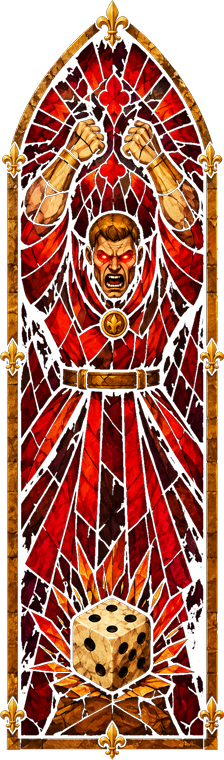
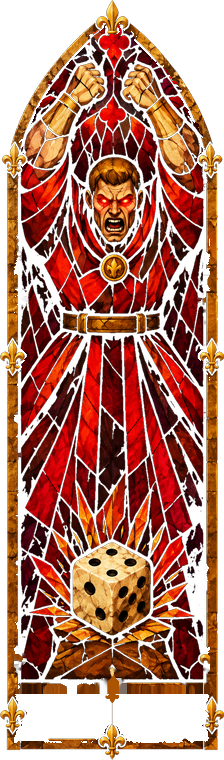
art: Wrath's glass moved up 56 px inside his frame, no scaling (his eyes on the others' line, 48% of the table window; fists under the arch); the frame split takes only gold joined to the rim, so no glass is left behind on it (REPLY 33 item 2)

diff --git a/tools/wrath_glass_shift.py b/tools/wrath_glass_shift.py
@@ -1,0 +1,88 @@
+# REPLY 32-33: split a kept window into frame and glass and shift the glass up (Wrath: 56 px, no scaling), so his
+# eyes land on the other Sins' eye line. Frame = the rim, the gold connected to it, and the lead hugging its inner
+# edge; glass = the rest, its pixels under the frame filled from the glass beside them.
+# python -I tools/wrath_glass_shift.py <window.png> <out.png> <px up>
+import sys
+import numpy as np
+from PIL import Image
+
+src, out, shift = sys.argv[1], sys.argv[2], int(sys.argv[3])
+im = np.asarray(Image.open(src).convert('RGBA')).astype(np.float32)
+H, W = im.shape[:2]
+solid = im[..., 3] > 128
+inside = np.zeros_like(solid)  # the window's shape: each row filled from its first to its last solid pixel
+for y in range(H):
+    xs = np.nonzero(solid[y])[0]
+    if xs.size:
+        inside[y, xs[0]:xs[-1] + 1] = True
+
+# distance (in px, chessboard) from the outside, by repeated erosion
+dist = np.zeros((H, W), np.int32)
+cur = inside.copy()
+for d in range(1, 40):
+    n = cur.copy()
+    n[1:, :] &= cur[:-1, :]
+    n[:-1, :] &= cur[1:, :]
+    n[:, 1:] &= cur[:, :-1]
+    n[:, :-1] &= cur[:, 1:]
+    dist[cur & ~n] = d
+    cur = n
+dist[cur] = 40
+
+r, g, b = im[..., 0], im[..., 1], im[..., 2]
+gold = (r > 120) & (g > 80) & (b < g * 0.75) & (r > b + 60) & (np.abs(r - g) < 110)
+BAND = 26
+# the frame: the rim, then the gold connected to it (so a skin or glass highlight near the edge stays glass),
+# then the dark lead hugging the gold's inner edge
+frame = inside & (dist <= 6)
+cand = inside & gold & (dist <= BAND)
+for _ in range(BAND + 4):
+    g2 = frame.copy()
+    g2[1:, :] |= frame[:-1, :]
+    g2[:-1, :] |= frame[1:, :]
+    g2[:, 1:] |= frame[:, :-1]
+    g2[:, :-1] |= frame[:, 1:]
+    g2 &= cand | frame
+    if (g2 == frame).all():
+        break
+    frame = g2
+lead = inside & ((r + g + b) < 150) & (dist <= BAND + 3)
+for _ in range(2):
+    g2 = frame.copy()
+    g2[1:, :] |= frame[:-1, :]
+    g2[:-1, :] |= frame[1:, :]
+    g2[:, 1:] |= frame[:, :-1]
+    g2[:, :-1] |= frame[:, 1:]
+    frame = frame | (g2 & lead)
+# grow the frame by 1 px so its edge carries its own dark outline
+f2 = frame.copy()
+f2[1:, :] |= frame[:-1, :]
+f2[:-1, :] |= frame[1:, :]
+f2[:, 1:] |= frame[:, :-1]
+f2[:, :-1] |= frame[:, 1:]
+frame = f2 & inside
+
+# the glass alone: frame pixels filled from the neighbouring glass (grown inward), so no ornament moves with it
+gl = im.copy()
+known = inside & ~frame
+for _ in range(40):
+    if known[inside].all():
+        break
+    acc = np.zeros_like(gl)
+    cnt = np.zeros((H, W), np.float32)
+    for dy, dx in ((1, 0), (-1, 0), (0, 1), (0, -1)):
+        sk = np.roll(known, (dy, dx), (0, 1))
+        sg = np.roll(gl, (dy, dx), (0, 1))
+        acc += sg * sk[..., None]
+        cnt += sk
+    grow = ~known & inside & (cnt > 0)
+    gl[grow] = acc[grow] / cnt[grow][:, None]
+    known |= grow
+# glass shifted up by `shift`, the bottom padded with its last row (below every crop the game uses)
+glass = np.concatenate([gl[shift:], np.repeat(gl[-1:], shift, axis=0)], axis=0)
+outim = glass.copy()
+outim[frame] = im[frame]
+outim[~inside] = im[~inside]  # outside the window: as it was (transparent); its glass keeps the shifted leading
+Image.fromarray(outim.clip(0, 255).astype(np.uint8)).save(out)
+Image.fromarray((frame * 255).astype(np.uint8)).save(out.replace('.png', '_frame_mask.png'))
+print('ok', W, H, 'shift', shift)
